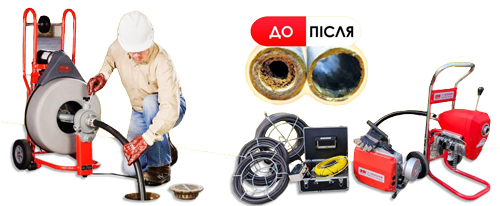
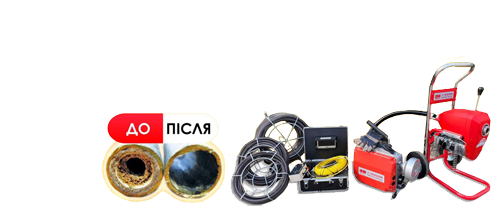
Add files via upload

diff --git a/index_edge.js b/index_edge.js
@@ -35,20 +35,27 @@ var symbols = {
             {
                 id: 't',
                 type: 'image',
-                rect: ['7px', '30px','400px','90px','auto', 'auto'],
+                rect: ['7px', '30px','443px','90px','auto', 'auto'],
                 fill: ["rgba(0,0,0,0)",im+"t.png",'0px','0px']
             },
             {
                 id: 'main',
                 type: 'image',
-                rect: ['-1px', '-2px','420px','154px','auto', 'auto'],
+                rect: ['-40px', '-28px','456px','181px','auto', 'auto'],
                 fill: ["rgba(0,0,0,0)",im+"main.png",'0px','0px']
             },
             {
                 id: 'logo',
                 type: 'image',
-                rect: ['11px', '4px','382px','154px','auto', 'auto'],
+                rect: ['15px', '11px','185px','129px','auto', 'auto'],
                 fill: ["rgba(0,0,0,0)",im+"logo.png",'0px','0px']
+            },
+            {
+                id: '_1',
+                type: 'image',
+                rect: ['227px', '1px','161px','150px','auto', 'auto'],
+                fill: ["rgba(0,0,0,0)",im+"1.png",'0px','0px'],
+                transform: [[],[],[],['-1']]
             }],
             symbolInstances: [
 
@@ -57,11 +64,11 @@ var symbols = {
     states: {
         "Base State": {
             "${_logo}": [
-                ["style", "top", '4px'],
-                ["style", "height", '154px'],
+                ["style", "top", '11px'],
+                ["style", "height", '129px'],
                 ["style", "opacity", '0'],
-                ["style", "left", '11px'],
-                ["style", "width", '382px']
+                ["style", "left", '15px'],
+                ["style", "width", '185px']
             ],
             "${_f}": [
                 ["style", "left", '-3px'],
@@ -69,21 +76,33 @@ var symbols = {
             ],
             "${_Stage}": [
                 ["color", "background-color", 'rgba(255,255,255,1)'],
-                ["style", "overflow", 'hidden'],
+                ["style", "width", '420px'],
                 ["style", "height", '150px'],
-                ["style", "width", '420px']
+                ["style", "overflow", 'hidden']
             ],
             "${_t}": [
                 ["style", "top", '30px'],
+                ["transform", "scaleY", '1'],
+                ["transform", "scaleX", '1'],
                 ["style", "opacity", '0'],
-                ["style", "left", '7px']
+                ["style", "left", '7px'],
+                ["style", "width", '443px']
+            ],
+            "${__1}": [
+                ["style", "top", '1px'],
+                ["transform", "scaleY", '1'],
+                ["transform", "scaleX", '-1'],
+                ["style", "height", '150px'],
+                ["style", "opacity", '0'],
+                ["style", "left", '227px'],
+                ["style", "width", '161px']
             ],
             "${_main}": [
-                ["style", "top", '-2px'],
-                ["style", "height", '154px'],
+                ["style", "top", '-28px'],
+                ["style", "height", '181px'],
                 ["style", "opacity", '0'],
-                ["style", "left", '-1px'],
-                ["style", "width", '420px']
+                ["style", "left", '-40px'],
+                ["style", "width", '456px']
             ]
         }
     },
@@ -91,15 +110,21 @@ var symbols = {
         "Default Timeline": {
             fromState: "Base State",
             toState: "",
-            duration: 18000,
+            duration: 15000,
             autoPlay: true,
             timeline: [
-                { id: "eid7", tween: [ "style", "${_main}", "opacity", '1', { fromValue: '0'}], position: 6000, duration: 1000 },
-                { id: "eid8", tween: [ "style", "${_main}", "opacity", '0', { fromValue: '1'}], position: 11000, duration: 1000 },
-                { id: "eid2", tween: [ "style", "${_t}", "opacity", '1', { fromValue: '0'}], position: 0, duration: 1000 },
-                { id: "eid4", tween: [ "style", "${_t}", "opacity", '0', { fromValue: '1'}], position: 5000, duration: 1000 },
-                { id: "eid9", tween: [ "style", "${_logo}", "opacity", '1', { fromValue: '0'}], position: 12000, duration: 1000 },
-                { id: "eid10", tween: [ "style", "${_logo}", "opacity", '0', { fromValue: '1'}], position: 17000, duration: 1000 }            ]
+                { id: "eid23", tween: [ "style", "${_t}", "left", '-60px', { fromValue: '7px'}], position: 2500, duration: 500 },
+                { id: "eid22", tween: [ "transform", "${_t}", "scaleY", '0.7', { fromValue: '1'}], position: 2500, duration: 500 },
+                { id: "eid2", tween: [ "style", "${_t}", "opacity", '1', { fromValue: '0'}], position: 0, duration: 833 },
+                { id: "eid4", tween: [ "style", "${_t}", "opacity", '0', { fromValue: '1'}], position: 6667, duration: 833 },
+                { id: "eid7", tween: [ "style", "${_main}", "opacity", '1', { fromValue: '0'}], position: 2500, duration: 500 },
+                { id: "eid8", tween: [ "style", "${_main}", "opacity", '0', { fromValue: '1'}], position: 6667, duration: 833 },
+                { id: "eid11", tween: [ "style", "${__1}", "opacity", '1', { fromValue: '0'}], position: 8333, duration: 833 },
+                { id: "eid12", tween: [ "style", "${__1}", "opacity", '0', { fromValue: '1'}], position: 14167, duration: 833 },
+                { id: "eid24", tween: [ "transform", "${_t}", "scaleX", '0.7', { fromValue: '1'}], position: 2500, duration: 500 },
+                { id: "eid21", tween: [ "style", "${_t}", "top", '-11px', { fromValue: '30px'}], position: 2500, duration: 500 },
+                { id: "eid9", tween: [ "style", "${_logo}", "opacity", '1', { fromValue: '0'}], position: 8333, duration: 833 },
+                { id: "eid10", tween: [ "style", "${_logo}", "opacity", '0', { fromValue: '1'}], position: 14167, duration: 833 }            ]
         }
     }
 }

diff --git a/index_edgeActions.js b/index_edgeActions.js
@@ -13,6 +13,13 @@ var Composition = Edge.Composition, Symbol = Edge.Symbol; // aliases for commonl
    (function(symbolName) {
       
       
+      Symbol.bindTriggerAction(compId, symbolName, "Default Timeline", 15000, function(sym, e) {
+         // insert code here
+         sym.play(0);
+
+      });
+      //Edge binding end
+
    })("stage");
    //Edge symbol end:'stage'
 
